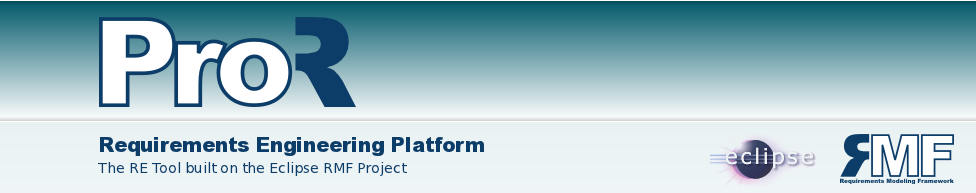
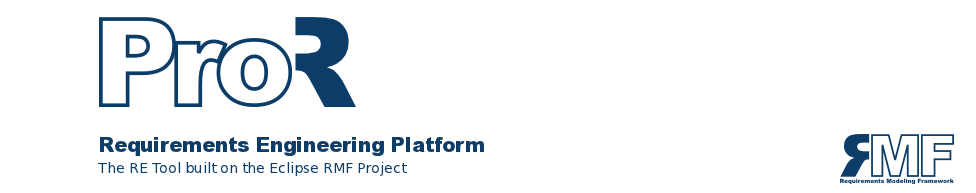
Better ProR Background

diff --git a/pror/style.css b/pror/style.css
@@ -1,3 +1,9 @@
+body {
+background-color: #ecf3f5;
+background-image:url('images/background.png');
+background-repeat:repeat-x;
+}
+
 @CHARSET "UTF-8";
 #novaContent {
 	background: url("images/backgroundPror.png") no-repeat;
